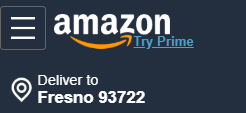
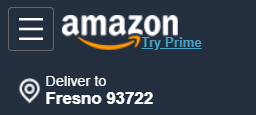
added images and commit feature three

Changed region(s): [[0.0, 0.0531, 0.7967, 0.4513], [0.0285, 0.6372, 0.5976, 0.9292]]

diff --git a/index.html b/index.html
@@ -17,12 +17,9 @@
             background-color: #EAEDED;
         }
 
-        .top-left,
-        .top-right,
-        .top-middle {
-            height: 100%;
+        a {
+            text-decoration-style: none;
         }
-
         .header-container {
             background-color: black;
             height: 90px;
@@ -46,7 +43,13 @@
         }
 
         .top-left>img, .top-right>img{
-            height: 60 px;
+            height: 60px;
+        }
+        
+        .top-left,
+        .top-right,
+        .top-middle {
+            height: 100%;
         }
         .top-middle {
             width: calc(100% - 330px);
@@ -60,21 +63,25 @@
         
         .top-nav-items {
             text-align: left;
-            margin-top: 18px;
+            margin-top: 15px;
             margin-left: 32px;
         }
         .top-nav-items > li {
             display: inline-block;
+            margin-right: 5px;
         }
 
         .top-nav-items > li > a {
             font-size: 8px;
             text-decoration: none;
             color: #ffffff;
+            padding: 4px;
+            display: block;
         }
 
         .top-nav-items >li:hover {
             border: 1px sold #fff;
+            border-radius: 5px;
             
         }
         .top-search-button {
@@ -88,16 +95,65 @@
             overflow: hidden;
         }
         .topright>img {
-            background-position: 30
+            background-position: 30px 0;
         }
 
         .main-body {
-            width: 90vw;
+            width: 80vw;
             background-color: brown;
             min-height: 800px;
             margin: 0px auto;
         }
 
+       .main-top-container>img {
+           max-width:100%;
+       }
+
+       .main-top-items > li {
+           display: inline-block;
+           background-color: #FFF;
+           width: 200px;
+           padding: 10px;
+           min-width: 25%;
+            text-align: center;
+       }
+       .main-top-items>li:last-child {
+           background-color:transparent !important;
+       }
+
+       .btn-sign-in {
+           background-color: #f0c14b;
+           border-radius: 1px;
+           border-color: #a88734 #9c7e31 #846a29;
+            color: #111;
+            font-size: 8px;
+            padding: 8px 20px;
+            width: 100%;
+       }
+       .last-container {
+           background-color: white;
+       }
+       .main-top-items > li > img, .main-bottom-container >li >img {
+           max-width: 100%;
+       }
+       .main-top-items > li > h2 {
+           font-size: 12px;
+           margin-bottom:7px;
+       }
+
+       .main-top-items > li, .main-top-items > li > a {
+           font-size: 7px;
+       }
+
+       .main-bottom-container {
+           list-style-type: none;
+       }
+       .main-bottom-container > li {
+           width: 100%;
+           background-color: white;
+           margin: 10px 0px;
+           padding: 10px;
+       }
         .footer-sidebar-container {
             width: 100vw;
             min-height: 500px;
@@ -108,9 +164,7 @@
 
 <body>
     <header class="header-container">
-        <div class="top-bar">
-            Top bar
-        </div>
+        <div class="top-bar"></div>
         <div class="top-nav">
             <div class="top-left">
                 <img src="./img./sm_left.png" alt="top-left">
@@ -119,7 +173,7 @@
             <div class="top-middle">
                 <input type="text" class="top-search">
                 <button type="button" class="top-search-button">Search</button>>
-                <ul class=top-nav-items>
+                <ul class="top-nav-items">
                     <li>
                         <a href=#>Your Amazon.com</a>
                     </li>
@@ -143,14 +197,53 @@
                     </li>
                 </ul>
             </div>
-
             <div class="top-right">
                 <img src="./img./sm_right.png" alt="top-right">
             </div>
         </div>
     </header>
     <div class="main-body">
-        Main Body
+        <div class="main-top-container">
+            <img src="./img/bg_cover.jpg" alt="banner">
+            <ul class="main-top-items">
+                <li>
+                    <h2>Find the perfect gift</h2>
+                    <img src=./img/sm_img1.jpg alt="img 1">
+                    <p>Send love, spread love</p>
+                    <a href=#>See all Valentine's Day gifts</a>
+                </li>
+                <li>
+                    <h2>Find the perfect gift</h2>
+                    <img src=./img/sm_img2.jpg alt="img 1">
+                    <p>Send love, spread love</p>
+                    <a href=#>See all Valentine's Day gifts</a>
+                </li>
+                <li>
+                    <h2>Find the perfect gift</h2>
+                    <img src=./img/sm_img3.jpg alt="img 1">
+                    <p>Send love, spread love</p>
+                    <a href=#>See all Valentine's Day gifts</a>
+                </li>
+                <li>
+                    <div class="last-container">
+                        <h2>Find the perfect gift</h2>
+                        <button class="btn-sign-in" type="button">Sign in Security</button>
+                    </div>
+                    <img src=./img/sm_img4.png alt="img 1">
+                </li>
+            </ul>
+        </div>
+        <ul class="main-bottom-container">
+            <li>
+                <img src="./img/bg_banner1.PNG" alt="img 1">
+            </li>
+            <li>
+                <img src="./img/bg_banner2.PNG" alt="img 2">
+            </li>
+            <li>
+                <img src="./img/bg_banner3.PNG" alt="img 3">
+            </li>
+        </ul>
     </div>
     <div class="footer-sidebar-container">
         Footer Side Bar Container
